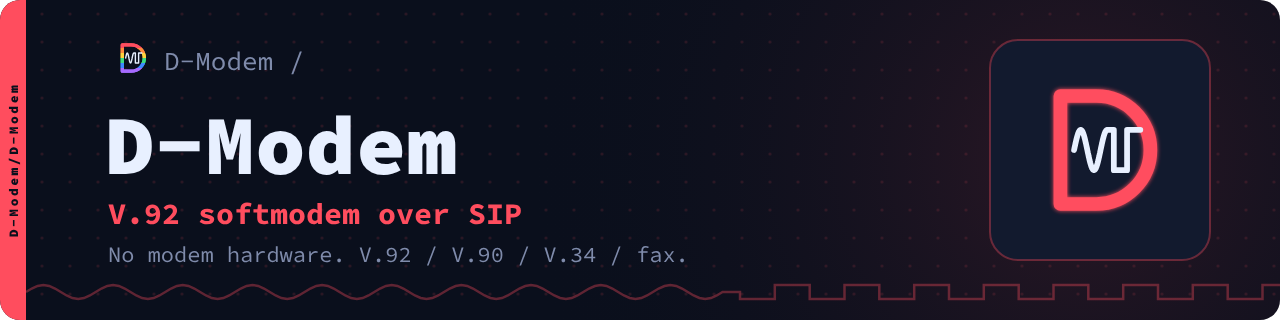
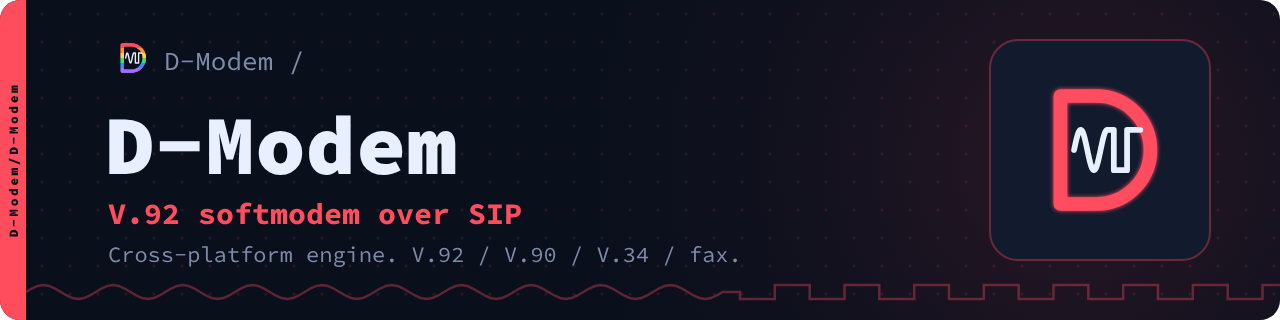
D-Modem: "Cross-platform engine"
Claude-Session: https://claude.ai/code/session_01B82eRR7XmhWoFbzJFFFqde

Changed region(s): [[0.0625, 0.75, 0.5625, 0.8438]]

diff --git a/tools/gen.py b/tools/gen.py
@@ -13,7 +13,7 @@ BOOK = {n: (y, c) for n, y, c in BOOKS}
 
 REPOS = {
     "D-Modem":  dict(book="Red", color=BOOK["Red"][1],     icon="wave",
-                     tag="V.92 softmodem over SIP", sub="No modem hardware. V.92 / V.90 / V.34 / fax.",
+                     tag="V.92 softmodem over SIP", sub="Cross-platform engine. V.92 / V.90 / V.34 / fax.",
                      chips=["C++", "SIP", "Asterisk", "FreeSWITCH"]),
     "app":      dict(book="Yellow", color=BOOK["Yellow"][1], icon="phone",
                      tag="A dial-up modem in your pocket", sub="Android app: V.92 over a SIP call.",
